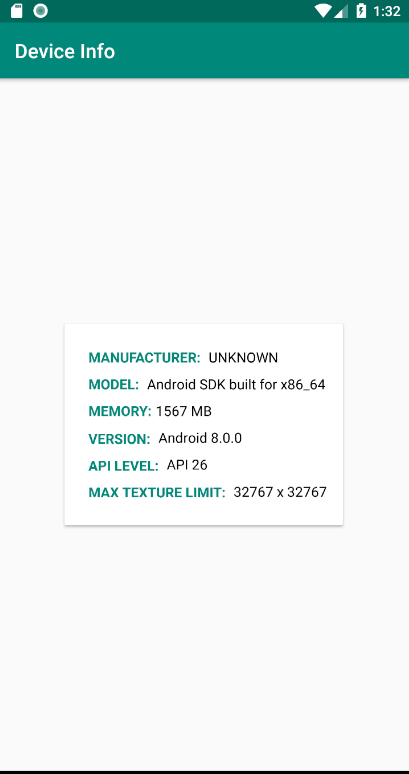
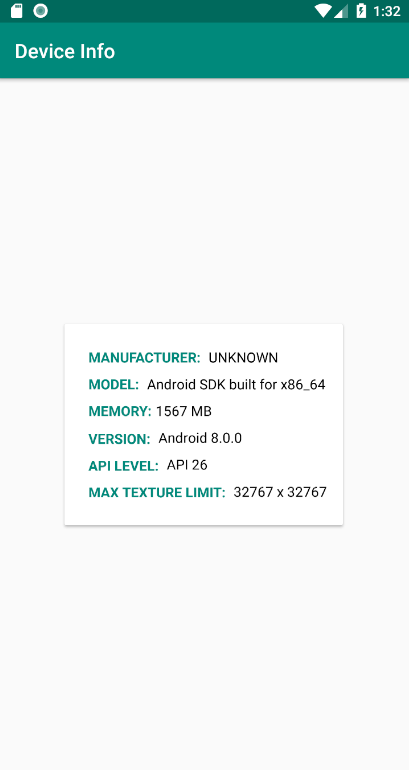
Corrected preview image.

diff --git a/README.md b/README.md
@@ -4,7 +4,7 @@ Device Info
 DEVELOPER: huhx0015
 
 ### DEVICE INFO
-![deviceinfo_preview](https://user-images.githubusercontent.com/1645482/40882337-a088d2f2-6693-11e8-8d0c-55c38895d8a9.png)
+![deviceinfo_preview](https://user-images.githubusercontent.com/1645482/40882356-2c00c3c6-6694-11e8-8420-75b9d39eb06f.png)
 
 ## Description
 
